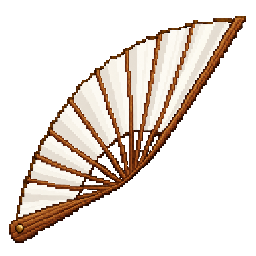
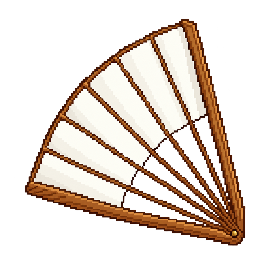
dungeon2 fix

diff --git a/src/debug/debugFloorJump.ts b/src/debug/debugFloorJump.ts
@@ -13,32 +13,41 @@ export function createDebugFloorJumpState(targetFloor: FloorId, playerName = "DE
   const targetIndex = FLOOR_IDS.indexOf(targetFloor);
   if (targetIndex < 0) return state;
   let inventoryState = state.inventoryState;
-  const completedQuestIds = QUEST_DEFINITIONS.slice(0, targetIndex).map((quest) => quest.id);
   const completedFloorIds = FLOOR_IDS.slice(0, targetIndex);
+  const completedQuests = completedFloorIds.map((floorId) => {
+    const quest = QUEST_DEFINITIONS.find((entry) => entry.targetFloorId === floorId);
+    if (!quest) throw new Error(`Missing quest definition for ${floorId}`);
+    return quest;
+  });
+  const completedQuestIds = completedQuests.map((quest) => quest.id);
   const questState = { ...state.questState };
   const rewardClaimed: Record<string, boolean> = {};
   const achievementReceived: Record<string, boolean> = {};
   const firstObjectiveEventSeen: Record<string, boolean> = {};
   const floorBestCorrect: Record<string, number> = {};
-  completedQuestIds.forEach((questId, index) => {
+  completedQuests.forEach((quest, index) => {
+    const questId = quest.id;
     const floorId = completedFloorIds[index];
     const condition = getQuestRareRewardCondition(questId);
-    const achievement = ACHIEVEMENT_DEFINITIONS.find((entry) => entry.rewardStateId === questId)!;
+    const achievement = ACHIEVEMENT_DEFINITIONS.find((entry) => entry.rewardStateId === questId);
     questState[questId] = "completed";
     rewardClaimed[questId] = true;
-    achievementReceived[achievement.id] = true;
+    if (achievement) {
+      achievementReceived[achievement.id] = true;
+      inventoryState = changeItemQuantity(inventoryState, achievement.rewardItemId, 1);
+    }
     firstObjectiveEventSeen[floorId] = true;
     firstObjectiveEventSeen[`reward-revealed:${questId}`] = true;
     floorBestCorrect[floorId] = condition.totalQuestions;
-    inventoryState = changeItemQuantity(inventoryState, achievement.rewardItemId, 1);
   });
-  const targetQuest = QUEST_DEFINITIONS[targetIndex];
+  const targetQuest = QUEST_DEFINITIONS.find((quest) => quest.targetFloorId === targetFloor);
+  if (!targetQuest) throw new Error(`Missing quest definition for ${targetFloor}`);
   questState[targetQuest.id] = "available";
   return {
     ...state,
     playerState: { ...state.playerState, name: playerName || "DEBUG", gold: completedQuestIds.length * 5 },
     questState, inventoryState, clearedFloorIds: [...completedFloorIds],
-    floorUnlockState: { unlockedFloorIds: [...completedFloorIds] }, floorBestCorrect,
+    floorUnlockState: { unlockedFloorIds: [...completedFloorIds, targetFloor] }, floorBestCorrect,
     firstObjectiveEventSeen, rewardClaimed, achievementReceived,
     completedStoryIds: completedQuestIds.flatMap((questId) => {
       const quest = QUEST_DEFINITIONS.find((entry) => entry.id === questId)!;

diff --git a/src/phase29_11Checks.ts b/src/phase29_11Checks.ts
@@ -14,14 +14,23 @@ export function runPhase29_11Checks() {
   assert(floor3Ids.every((id) => ["baekje-smile", "goguryeo-samjogo", "twisted-pensive-bodhisattva"].includes(id)), "Dungeon 3 monster assignment changed");
   assert(floor4Ids.every((id) => ["gold-crown-wraith", "corrupted-gaya-pottery", "silla-cheonma"].includes(id)), "Dungeon 4 has an old monster assignment");
 
-  const questIds = ["quest-floor-1-prehistory", "quest-floor-2-memory-fragment", "quest-floor-3-torn-cloth", "quest-floor-4-jeon-rescue"];
-  for (const [index, floor] of (["floor-1", "floor-2", "floor-3", "floor-4"] as const).entries()) {
+  const questIds = [
+    "quest-floor-1-prehistory", "quest-floor-2-memory-fragment", "quest-floor-3-torn-cloth",
+    "quest-floor-4-jeon-rescue", "quest-floor-5-unified-silla", "quest-floor-6-balhae",
+    "quest-floor-7-goryeo-founding", "quest-floor-8-goryeo-relations",
+    "quest-floor-9-goryeo-society-culture", "quest-floor-10-final-source",
+  ];
+  const floorIds = ["floor-1", "floor-2", "floor-3", "floor-4", "floor-5", "floor-6", "floor-7", "floor-8", "floor-9", "floor-10"] as const;
+  for (const [index, floor] of floorIds.entries()) {
     const state = createDebugFloorJumpState(floor);
     assert(state.questState[questIds[index]] === "available", `${floor} target quest must be available`);
     assert(state.clearedFloorIds.length === index, `${floor} cleared floor count mismatch`);
     assert(state.playerState.gold === index * 5, `${floor} gold mismatch`);
     assert(Object.keys(state.rewardClaimed).length === index, `${floor} claimed reward count mismatch`);
-    assert(Object.keys(state.achievementReceived).length === index, `${floor} achievement count mismatch`);
+    const expectedAchievementCount = Math.max(0, index - 1);
+    assert(Object.keys(state.achievementReceived).length === expectedAchievementCount, `${floor} achievement count mismatch`);
+    assert(state.floorUnlockState.unlockedFloorIds.includes(floor), `${floor} target floor must be unlocked`);
+    assert(state.questState[questIds[index]] !== "active", `${floor} target quest must remain unaccepted`);
     assert(!Object.keys(state.inventoryState.items).some((id) => id.startsWith("quest-")), `${floor} must not retain quest items`);
     for (let previous = 0; previous < index; previous += 1) assert(state.questState[questIds[previous]] === "completed", `${floor} previous quest incomplete`);
   }

diff --git a/src/app/App.tsx b/src/app/App.tsx
@@ -216,7 +216,14 @@ export function App() {
         onInventoryChanged={() => requestSave("itemAcquired")}
         onGoldAwarded={() => requestSave("itemAcquired")}
         onDungeonEntered={() => { setGame((current) => ({ ...current, currentFloorId: activeFloorId })); requestSave("dungeonEntered"); }}
-        onDungeonAbandoned={() => setGame((current) => ({ ...current, currentFloorId: null, currentFloorRun: null }))}
+        onDungeonAbandoned={(reason) => setGame((current) => ({
+          ...current,
+          currentFloorId: null,
+          currentFloorRun: null,
+          playerState: reason === "defeat"
+            ? { ...current.playerState, currentHp: current.playerState.maxHp }
+            : current.playerState,
+        }))}
         savedFloorRun={game.currentFloorRun}
         onFloorRunChanged={updateFloorRun}
         firstObjectiveEventSeen={Boolean(game.firstObjectiveEventSeen[activeFloorId])}
@@ -240,6 +247,7 @@ export function App() {
             ...current,
             currentFloorId: null,
             currentFloorRun: null,
+            playerState: { ...current.playerState, currentHp: current.playerState.maxHp },
             clearedFloorIds: [...new Set([...current.clearedFloorIds, activeFloorId])],
             firstObjectiveEventSeen: { ...current.firstObjectiveEventSeen, [activeFloorId]: true },
             floorBestCorrect: { ...current.floorBestCorrect, [activeFloorId]: Math.max(current.floorBestCorrect[activeFloorId] ?? 0, correctCount) },
@@ -261,7 +269,7 @@ export function App() {
           }));
           requestSave("questCompleted");
         }}
-        onFloorCleared={() => { setGame((current) => ({ ...current, currentFloorId: null, currentFloorRun: null, clearedFloorIds: [...new Set([...current.clearedFloorIds, activeFloorId])] })); requestSave("floorCleared"); }}
+        onFloorCleared={() => { setGame((current) => ({ ...current, currentFloorId: null, currentFloorRun: null, playerState: { ...current.playerState, currentHp: current.playerState.maxHp }, clearedFloorIds: [...new Set([...current.clearedFloorIds, activeFloorId])] })); requestSave("floorCleared"); }}
         onDungeon10EndingStarted={() => {
           endingSequenceActiveRef.current = true;
           coordinatorRef.current?.dispose();

diff --git a/src/screens/TitleScreen/TitleScreen.tsx b/src/screens/TitleScreen/TitleScreen.tsx
@@ -18,6 +18,7 @@ export function TitleScreen({ onNavigate, onOpenSettings, hasSave, onNewGame, on
   const [debugOpen, setDebugOpen] = useState(false);
 
   useEffect(() => {
+    if (!import.meta.env.DEV) return;
     const onKeyDown = (event: KeyboardEvent) => {
       if (!isDebugToggleShortcut(event) || event.repeat) return;
       event.preventDefault();
@@ -44,7 +45,7 @@ export function TitleScreen({ onNavigate, onOpenSettings, hasSave, onNewGame, on
         설정
       </button>
 
-      {debugVisible && <div className="title-debug-floor-jump">
+      {import.meta.env.DEV && debugVisible && <div className="title-debug-floor-jump">
         <button className="title-debug-toggle" type="button" onClick={() => setDebugOpen((open) => !open)}>[DEBUG]</button>
         {debugOpen && <div className="title-debug-panel" aria-label="던전 층 테스트 이동">
           {([1, 2, 3, 4, 5, 6, 7, 8, 9, 10] as const).map((floor) => <button key={floor} type="button" onClick={() => onDebugFloorJump(`floor-${floor}`)}>Dungeon {floor}</button>)}

diff --git a/src/data/stories/npcStories.ts b/src/data/stories/npcStories.ts
@@ -300,7 +300,7 @@ export const NPC_STORY_SEQUENCES: Record<string, StorySequence> = {
     { actor: "theo", expression: "worried", text: " ... " },
     { actor: "theo", expression: "worried", text: " 그 물건이 무엇인지 자세히 살펴보지 않고 말입니까..? " },
     { actor: "theo", expression: "worried", text: " 저에게 맡겨주시면, 그 물건에 대해 자세히 감정할 수 있습니다. " },
-    { actor: "aron", expression: "serious", text: " 아니요, 테오. " },
+    { actor: "aron", expression: "serious", text: " 아닙니다, 테오. " },
     { actor: "aron", expression: "serious", text: " 이 물건은 오염된 물건이 틀림없습니다. " },
     { actor: "aron", expression: "serious", text: " 저희가 담당하겠습니다. 신경쓰지 말고, 지금처럼 던전 토벌에 힘써주십시오. " },
     { actor: "luna", expression: "angry", text: " 네? 잠시만요, 대장! " },

diff --git a/src/screens/DungeonScreen/DungeonScreen.tsx b/src/screens/DungeonScreen/DungeonScreen.tsx
@@ -181,7 +181,7 @@ type DungeonScreenProps = {
   playerState: PlayerState;
   setPlayerState: Dispatch<SetStateAction<PlayerState>>;
   onDungeonEntered: () => void;
-  onDungeonAbandoned: () => void;
+  onDungeonAbandoned: (reason?: "defeat" | "voluntary") => void;
   onFloorCleared: () => void;
   onGoldAwarded: () => void;
   inventoryState: InventoryState;
@@ -2147,7 +2147,7 @@ export function DungeonScreen({
     dungeonExitProcessingRef.current = true;
     setRunActionBusy(true);
     restartTestDungeon(true);
-    onDungeonAbandoned();
+    onDungeonAbandoned("defeat");
     onNavigate("baseCamp");
   };
 
@@ -2171,7 +2171,7 @@ export function DungeonScreen({
     setRunActionBusy(true);
     onCollectionRunReset();
     restartTestDungeon(false);
-    onDungeonAbandoned();
+    onDungeonAbandoned("voluntary");
     onNavigate("baseCamp");
   };
 
